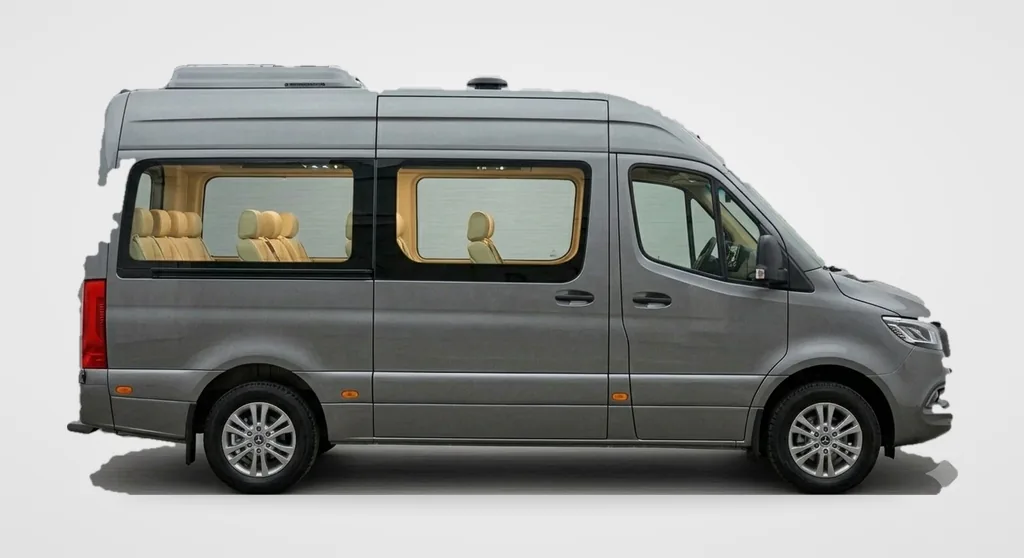
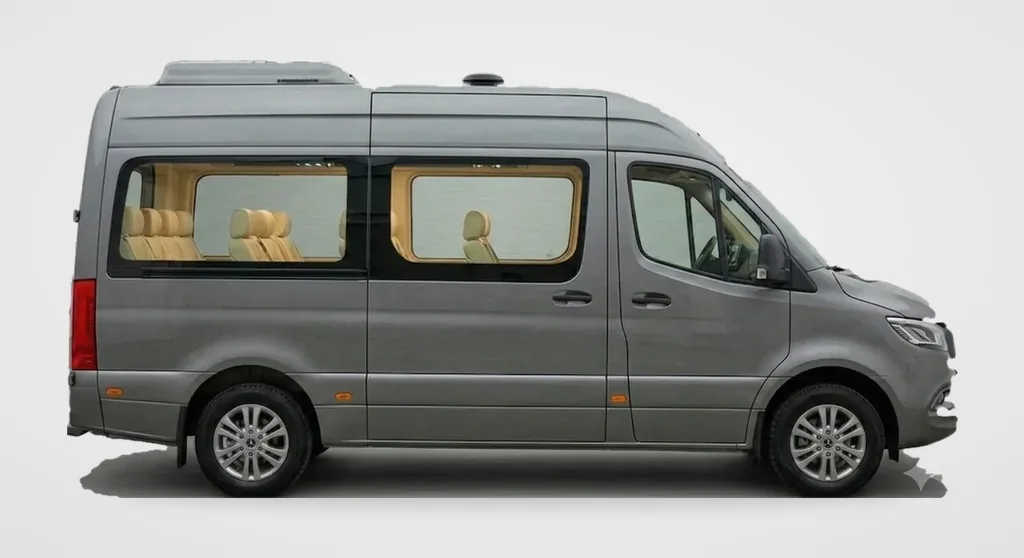
Replace the minibus image with the cleaner one the operator supplied
Same bus, but generated onto a light backdrop instead of a dark brushed one, which
makes it a better original: nothing has to be inferred about where the bodywork
ends. The glass and the seats survive the cut this time instead of coming through
muddied by a grey that had to be subtracted.

The cut is simpler to match. One threshold separates a backdrop at 227-234 from a
bus whose lightest point is 190, so the per-column background model and the colour
test the previous image needed are gone -- keeping them would only have added ways
to be wrong.

Two things did need care. The floor shadow reads as the same mid-grey as parts of
the bus, so the threshold is raised below the sill, where only tyres and underside
are genuinely dark, and anything still spilling past the bumpers is trimmed: cast
shadow lifted off one floor and dropped on another is a stain, not a shadow, and a
drawn one replaces it. And the Gemini sparkle survived the first attempt because
that shadow was the bridge it was holding on by -- once the shadow goes it is
stranded, so the largest-component pass runs again afterwards and it falls away.

Changed region(s): [[0.0625, 0.0914, 0.9375, 0.914]]

diff --git a/src/lib/fleet.ts b/src/lib/fleet.ts
@@ -59,11 +59,10 @@ export const fleet: Vehicle[] = [
   {
     type: "minibus",
     name: "Minibus",
-    // Not a photograph of our own bus: an image the operator generated with Gemini,
-    // cut off its grey studio backdrop and set on the same light background as the
-    // three photographs beside it. It shows the model accurately, which is what the
-    // card claims and all the card claims. Swap the file when a real photograph of
-    // the actual vehicle exists.
+    // Not a photograph of our own bus: an image the operator generated, cut off its
+    // backdrop and set on the same light background as the three photographs beside
+    // it. It shows the model accurately, which is what the card claims and all the
+    // card claims. Swap the file when a real photograph of the actual vehicle exists.
     image: "/vehicle-minibus.webp",
     width: 1024,
     height: 558,
